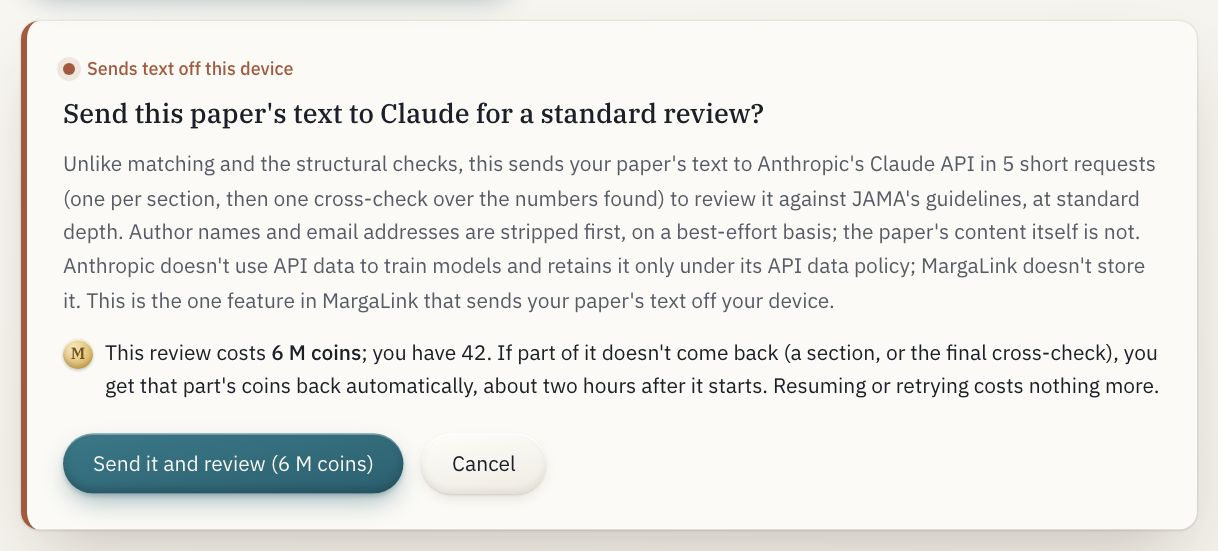
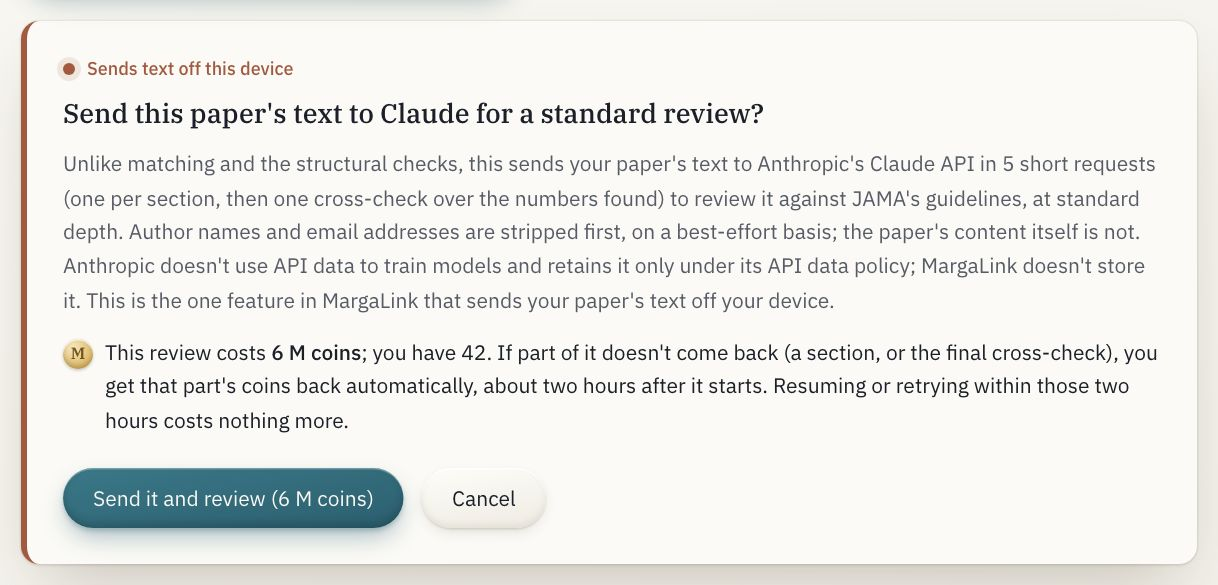
Second audit: the pages say what the code does
From the promises-vs-code audit:
- Privacy: purchase records are listed, Paddle event ids kept 90 days,
  and checkout and Turnstile described as running their own scripts; the
  sign-in panel no longer says only an email is kept.
- Deleting an account with Pro warns that Pro ends at once and the rest of
  the period is lost, and suggests cancelling first.
- Terms: capacity refusals charge nothing only before a run starts.
- The consent says resuming is free within the two hours; refunds and the
  guide say sections weigh by length.
- No dead Resume after a spent ticket; a Buy link after a 402; plain
  messages for Ask Claude, the account page and the portal (which also
  handles a network failure); the guide says Google shares its account id;
  the architecture page and diagram describe D1 and the account Functions;
  the landing page no longer says no sign-up at all.

Claude-Session: https://claude.ai/code/session_01FJMbDDx5ekqz6uR17AVMfJ

diff --git a/web/src/app/architecture/page.tsx b/web/src/app/architecture/page.tsx
@@ -53,14 +53,15 @@ export default function ArchitecturePage() {
           <SystemDiagram />
           <DocPart title="No server for the work">
             <p>
-              The web app is a Next.js <strong>static export</strong> on Cloudflare Pages. There is no application server and no database. The journal
+              The web app is a Next.js <strong>static export</strong> on Cloudflare Pages. No server does the work on a paper. The journal
               index is built offline by the Python pipeline ({code("pipeline/")}) and shipped as static files ({code("web/public/index/")}); the browser
               downloads it once and does every match itself. That isn&apos;t an optimisation on top of a server design: a server that ranks journals
               necessarily sees the paper, so keeping &ldquo;the paper never leaves the device&rdquo; absolute meant taking the server out of the path.
             </p>
             <p>
-              The two exceptions are Cloudflare Pages Functions, {code("functions/api/review.ts")} and {code("functions/api/figure.ts")}, for the two
-              features that need a language model. They exist because the browser must never hold the Anthropic API key. Both are stateless.
+              The exceptions are Cloudflare Pages Functions: {code("functions/api/review.ts")} and {code("functions/api/figure.ts")}, for the two
+              features that need a language model (the browser must never hold the Anthropic API key), and the account and payment Functions beside
+              them, on a D1 database that holds accounts and M coins, never anything from a paper.
             </p>
           </DocPart>
           <DocPart title="Heavy things run in workers">
@@ -91,9 +92,10 @@ export default function ArchitecturePage() {
                 name: "2 · Nothing from a paper is stored on a server",
                 what: (
                   <>
-                    Both Functions are stateless: they validate, call Claude, gate the answer and return it. The only server state is a daily counter per
-                    feature in KV ({code("review-pass-count:<date>")}, {code("figure-count:<date>")}). Writing projects live in the browser&apos;s Origin
-                    Private File System ({code("projectStore.ts")}).
+                    Both AI Functions keep nothing from a request: they validate, charge, call Claude, gate the answer and return it. Server state is a
+                    daily counter per feature in KV ({code("review-pass-count:<date>")}, {code("figure-count:<date>")}) and, in D1, accounts, the coin
+                    ledger and a running review&apos;s ticket (section ids and lengths). Writing projects live in the browser&apos;s Origin Private File
+                    System ({code("projectStore.ts")}).
                   </>
                 ),
               },
@@ -258,8 +260,9 @@ export default function ArchitecturePage() {
                 name: "Paying for a review",
                 what: (
                   <>
-                    {code("review/start")} gets section ids and lengths (never text), charges {code("reviewPrice")} and issues a ticket bound to them, with a pass
-                    budget, for two hours. Every pass spends one before Claude is called; when the ticket expires, the parts it didn&apos;t deliver (sections, the cross-check) are refunded.
+                    {code("review/start")} gets section ids and lengths (never text), charges {code("reviewPrice")} and issues a ticket bound to them for two
+                    hours. Every pass is claimed before Claude is called: a section that came back isn&apos;t sent again, and each gets at most four tries. When
+                    the ticket expires, what it didn&apos;t deliver is refunded, sections weighed by length.
                   </>
                 ),
                 away: true,

diff --git a/web/src/app/review/_components/useReview.ts b/web/src/app/review/_components/useReview.ts
@@ -5,7 +5,7 @@ import { extractFromFile } from "@/lib/extract";
 import { findJournalRules } from "@/lib/journalRules";
 import { checkRules, type RulesCheckResult } from "@/lib/rulesCheck";
 import { MAX_REVIEW_CHARS, prepareForReview } from "@/lib/review";
-import { ReviewSynthesisError, planChunks, quoteReview, runReview, type ReviewState } from "@/lib/reviewOrchestrator";
+import { ReviewEndedError, ReviewSynthesisError, planChunks, quoteReview, runReview, type ReviewState } from "@/lib/reviewOrchestrator";
 import { NotEnoughCoinsError, SignInRequiredError } from "@/lib/coins";
 import { refreshAccount, setBalance } from "@/components/useAccount";
 import { NO_EDITS, buildOutline, chunkSections, type OutlineEdits } from "@/lib/reviewSections";
@@ -35,6 +35,7 @@ export function useReview() {
   const [progress, setProgress] = useState<ReviewProgress | null>(null);
   const [reviewResult, setReviewResult] = useState<ReviewResult | null>(null);
   const [reviewError, setReviewError] = useState<string | null>(null);
+  const [shortOfCoins, setShortOfCoins] = useState(false); // the last start was refused for too few coins
   const [tier, setTier] = useState<ReviewTier>("standard");
   const [resumeState, setResumeState] = useState<ReviewState | null>(null);
   const abortRef = useRef<AbortController | null>(null);
@@ -50,6 +51,7 @@ export function useReview() {
     setConsentOpen(false);
     setReviewResult(null);
     setReviewError(null);
+    setShortOfCoins(false);
     setProgress(null);
     setResumeState(null);
   }, []);
@@ -149,6 +151,7 @@ export function useReview() {
       abortRef.current = ac;
       setReviewLoading(true);
       setReviewError(null);
+      setShortOfCoins(false);
       // A fresh run replaces the last result; a resume builds on it.
       if (!resume) {
         setReviewResult(null);
@@ -184,12 +187,17 @@ export function useReview() {
         if (err instanceof ReviewSynthesisError) {
           setResumeState(err.state);
           setReviewResult(err.partial);
+        } else if (err instanceof ReviewEndedError) {
+          setResumeState(null); // its ticket is spent or expired: a Resume would only fail
         } else if (runStateRef.current?.ticket) {
           // Whatever stopped a paid run (a sign-in that expired, today's
           // capacity), it can be picked up again on the same ticket, free.
           setResumeState(runStateRef.current);
         }
-        if (err instanceof NotEnoughCoinsError) setBalance(err.balance);
+        if (err instanceof NotEnoughCoinsError) {
+          setBalance(err.balance);
+          setShortOfCoins(true);
+        }
         if (err instanceof SignInRequiredError) {
           void refreshAccount();
           setReviewError("Sign in to get a review.");
@@ -240,6 +248,7 @@ export function useReview() {
     progress,
     reviewResult,
     reviewError,
+    shortOfCoins,
     resumeState,
     canRetry,
     unfinished,

diff --git a/web/src/app/privacy/page.tsx b/web/src/app/privacy/page.tsx
@@ -225,7 +225,11 @@ export default function PrivacyPage() {
       <h3 className="mt-6 font-medium">What an account keeps</h3>
       <ul className="mt-2 list-disc space-y-2 pl-5 text-ink-soft">
         <li>Your email address. If you use &ldquo;Continue with Google&rdquo;, also Google&apos;s id for your account, so we recognise it. Not your name, not your photo.</li>
-        <li>Your M coin history: each welcome bonus, purchase, charge and refund, with its date and the payment provider&apos;s reference for purchases.</li>
+        <li>Your M coin history: each welcome bonus, purchase, charge and refund, with its date.</li>
+        <li>
+          Your purchases: for each pack or Pro payment, what it bought, the amount and currency, and Paddle&apos;s references for the payment and for
+          you as its customer; for Pro, the plan and its billing periods; and any refund or chargeback of them.
+        </li>
         <li>Your sign-ins: for each browser you&apos;re signed in on, a one-way fingerprint of its sign-in token and when it expires (30 days, extended while you use it).</li>
         <li>Which version of this notice you signed up under.</li>
       </ul>
@@ -237,6 +241,7 @@ export default function PrivacyPage() {
           Counters that limit how many sign-in emails an address or a network can ask for. They&apos;re keyed by fingerprints made with a secret key
           only our server holds (a network&apos;s also changes daily), never the address itself, and they expire within a day.
         </li>
+        <li>Paddle&apos;s ids for the payment events it tells us about (nothing personal in them), for 90 days, so a repeated one is recognised.</li>
       </ul>
       <h3 className="mt-6 font-medium">Kept after you delete your account</h3>
       <p className="mt-2 text-ink-soft">
@@ -254,8 +259,9 @@ export default function PrivacyPage() {
       <p className="mt-2 text-ink-soft">
         Signed in, your browser holds two: one carries your sign-in and can&apos;t be read by
         pages, the other only says that you&apos;re signed in, so signed-out pages ask nothing. A
-        third, short-lived one exists only during a Google sign-in. No tracking or advertising
-        cookies, ever.
+        third, short-lived one exists only during a Google sign-in. MargaLink sets no tracking or
+        advertising cookies. When you buy coins, Paddle&apos;s checkout runs its own script, and where
+        it&apos;s switched on so does Cloudflare&apos;s Turnstile check; each follows its own privacy terms.
       </p>
       <h3 className="mt-6 font-medium">Who else is involved</h3>
       <ul className="mt-2 list-disc space-y-2 pl-5 text-ink-soft">

diff --git a/web/src/app/account/AccountView.tsx b/web/src/app/account/AccountView.tsx
@@ -28,7 +28,7 @@ export default function AccountView() {
     if (!signedIn) return;
     let live = true;
     fetch("/api/account")
-      .then((r) => (r.ok ? (r.json() as Promise<Details>) : Promise.reject(new Error(`Couldn't load your account (${r.status}).`))))
+      .then((r) => (r.ok ? (r.json() as Promise<Details>) : Promise.reject(new Error("Couldn't load your account. Reload the page to try again."))))
       .then((d) => live && setDetails(d))
       .catch((e: Error) => live && setError(e.message));
     return () => {
@@ -129,7 +129,7 @@ export default function AccountView() {
         </a>
       </Panel>
 
-      <DeletePanel email={account.email} onDeleted={() => setDeleted(true)} />
+      <DeletePanel email={account.email} pro={!!account.pro && account.pro.status !== "canceled"} onDeleted={() => setDeleted(true)} />
     </div>
   );
 }
@@ -143,7 +143,7 @@ function Panel({ title, children }: { title: string; children: ReactNode }) {
   );
 }
 
-function DeletePanel({ email, onDeleted }: { email: string; onDeleted: () => void }) {
+function DeletePanel({ email, pro, onDeleted }: { email: string; pro: boolean; onDeleted: () => void }) {
   const [typed, setTyped] = useState("");
   const [busy, setBusy] = useState(false);
   const [error, setError] = useState<string | null>(null);
@@ -165,6 +165,12 @@ function DeletePanel({ email, onDeleted }: { email: string; onDeleted: () => voi
     <section className="sheet border-l-4 border-away p-6 text-sm leading-relaxed text-ink-soft sm:p-8">
       <h2 className="mb-2 font-serif text-lg font-medium text-ink">Delete your account</h2>
       <p>This deletes your email address, sign-ins and coin history straight away. Any M coins left are lost, and it can&apos;t be undone.</p>
+      {pro && (
+        <p className="mt-2 text-away">
+          It also ends Pro at once: the rest of the period you&apos;ve paid for is lost. To keep it until then, cancel in Manage subscription instead and
+          delete your account after it ends.
+        </p>
+      )}
       <label htmlFor="delete-confirm" className="mt-4 block text-xs font-medium">
         Type {email} to confirm
       </label>

diff --git a/web/src/lib/paddleCheckout.ts b/web/src/lib/paddleCheckout.ts
@@ -50,10 +50,10 @@ function loadPaddle(): Promise<PaddleJs> {
  */
 export async function openPortal(): Promise<string | null> {
   const tab = window.open("about:blank", "_blank");
-  const res = await fetch("/api/pay/portal", { method: "POST" });
-  if (!res.ok) {
+  const res = await fetch("/api/pay/portal", { method: "POST" }).catch(() => null);
+  if (!res?.ok) {
     tab?.close();
-    return (await res.text().catch(() => "")) || `Couldn't open the portal (${res.status}).`;
+    return (res && (await res.text().catch(() => ""))) || "Couldn't open the subscription page. Check your connection and try again.";
   }
   const { url } = (await res.json()) as { url: string };
   if (tab) {
@@ -63,7 +63,7 @@ export async function openPortal(): Promise<string | null> {
   return null;
 }
 
-export async function openCheckout(o: { env: string; token: string; priceId: string; email: string; userId: string; onCompleted: () => void }) {
+export async function openCheckout(o: { env: string; token: string; priceId: string; email: string; userId: string; sig: string; onCompleted: () => void }) {
   const paddle = await loadPaddle();
   if (!ready) {
     if (o.env === "sandbox") paddle.Environment.set("sandbox");
@@ -74,7 +74,7 @@ export async function openCheckout(o: { env: string; token: string; priceId: str
   paddle.Checkout.open({
     items: [{ priceId: o.priceId, quantity: 1 }],
     customer: { email: o.email },
-    customData: { user_id: o.userId },
+    customData: { user_id: o.userId, sig: o.sig },
     settings: { displayMode: "overlay", theme: "light", allowLogout: false },
   });
 }

diff --git a/web/src/app/guide/page.tsx b/web/src/app/guide/page.tsx
@@ -822,7 +822,7 @@ export default function GuidePage() {
             alt="Signing in: Continue with Google, or an emailed link"
             notes={[
               <>
-                <strong>Continue with Google</strong>: shares only your verified email address with us.
+                <strong>Continue with Google</strong>: shares your verified email address and Google&apos;s id for your account, nothing else.
               </>,
               <>
                 <strong>Your email address</strong>, for a one-time link instead. It works once, within 15 minutes.
@@ -859,7 +859,7 @@ export default function GuidePage() {
           />
           <Aside title="Coins come back on their own">
             <p>
-              A review is priced in parts, one per section it sends and one for the final cross-check; any part that doesn&apos;t come back is
+              A review&apos;s price is shared among its sections, by length, and the final cross-check; any part that doesn&apos;t come back is
               refunded about two hours after the review started. An Ask Claude request that fails is refunded at once. Your history on the account
               page shows each refund.
             </p>

diff --git a/web/src/app/refunds/page.tsx b/web/src/app/refunds/page.tsx
@@ -17,8 +17,9 @@ export default function RefundsPage() {
       <div className="mt-10 space-y-8 text-ink-soft [&_strong]:font-medium [&_strong]:text-ink">
         <Part title="Coins back, automatically">
           <p>
-            A review is priced in parts: one for each section it sends, and one for the final cross-check. Any part that doesn&apos;t come back is
-            refunded, whether or not the rest of the review finished, about two hours after the review started. An Ask Claude request that fails, or
+            A review&apos;s price is shared among its parts: each section it sends, weighed by its length, and the final cross-check, counted like an
+            average section. Any part that doesn&apos;t come back is refunded (rounded up to whole coins), whether or not the rest of the review
+            finished, about two hours after the review started. An Ask Claude request that fails, or
             whose answer can&apos;t be used, is refunded at once. You don&apos;t need to ask; your coin history on{" "}
             <Link href="/account" className="text-accent hover:underline">
               your account page

diff --git a/web/src/app/review/_components/ReviewRunner.tsx b/web/src/app/review/_components/ReviewRunner.tsx
@@ -115,7 +115,20 @@ export default function ReviewRunner({ review: r, onCitation }: { review: Review
           onCancel={() => r.setConsentOpen(false)}
         />
       )}
-      {r.reviewError && <ErrorText>{r.reviewError}</ErrorText>}
+      {r.reviewError && (
+        <ErrorText>
+          {r.reviewError}
+          {r.shortOfCoins && (
+            <>
+              {" "}
+              <a href="/pricing#packs" target="_blank" rel="noopener" className="text-accent underline-offset-2 hover:underline">
+                Buy coins
+              </a>{" "}
+              <span className="text-ink-soft">(a new tab; your paper stays here)</span>
+            </>
+          )}
+        </ErrorText>
+      )}
       {r.reviewResult && <ReviewResultPanel result={r.reviewResult} partial={r.reviewResult.journalFit === null} onCitation={onCitation} />}
     </>
   );

diff --git a/web/src/components/useAccount.ts b/web/src/components/useAccount.ts
@@ -8,7 +8,8 @@ import { useSyncExternalStore } from "react";
 // signed in. It's asked again when the tab regains focus, which is how a
 // sign-in finished in a popup or another tab reaches this one.
 // `paddle`: what Paddle.js needs to open a checkout, or null until payments are set up.
-export type PaddleConfig = { env: "sandbox" | "production"; token: string; prices: Record<string, string> };
+// `checkout`: the account's signature for custom_data, so the webhook credits only the buyer.
+export type PaddleConfig = { env: "sandbox" | "production"; token: string; prices: Record<string, string>; checkout: string };
 // `pro`: the Pro plan, if there is one (renews: false once cancelled to the period's end).
 export type ProPlan = { interval: "month" | "year"; status: string; renews: boolean; periodEnd: number | null };
 export type Account =

diff --git a/web/src/components/docs/Diagrams.tsx b/web/src/components/docs/Diagrams.tsx
@@ -47,7 +47,7 @@ export function SystemDiagram() {
   const outside: Box[] = [
     { x: 566, y: 30, w: 240, h: 76, title: "Cloudflare Pages", lines: ["the static site, /index, /templates,", "the figure gallery"] },
     { x: 566, y: 124, w: 240, h: 94, title: "Public assets", lines: ["R2: TeX engine and packs", "jsDelivr: Pyodide, ONNX runtime", "Hugging Face: the embedding model"] },
-    { x: 566, y: 250, w: 240, h: 76, title: "Pages Functions", lines: ["/api/review · /api/figure", "hold the API key; store nothing"] },
+    { x: 566, y: 250, w: 240, h: 76, title: "Pages Functions", lines: ["/api/review · /api/figure", "hold the key; keep no paper"] },
     { x: 566, y: 352, w: 240, h: 54, title: "Anthropic API", lines: ["Claude"] },
   ];
   return (

diff --git a/web/src/app/terms/page.tsx b/web/src/app/terms/page.tsx
@@ -87,7 +87,8 @@ export default function TermsPage() {
         <Part title="Fair use">
           <p>
             Don&apos;t try to get around charges or limits, overload the service, call its API from anything but its own pages, or send material you
-            have no right to share. Daily capacity is limited; when it&apos;s reached, nothing is charged.
+            have no right to share. Daily capacity is limited: if it&apos;s reached before a review or a request starts, nothing is charged; a review stopped
+            midway by it is refunded for what didn&apos;t run.
           </p>
         </Part>
 

diff --git a/web/src/lib/figure.ts b/web/src/lib/figure.ts
@@ -64,7 +64,7 @@ export async function askClaude(
   }
   if (!res.ok) {
     const detail = await res.text().catch(() => "");
-    throw new Error(detail && res.status < 500 ? detail : `Claude request failed (${res.status})${detail ? `: ${detail}` : ""}`);
+    throw new Error(detail && res.status < 500 ? detail : "Claude didn't answer. Try again in a moment; a request that fails is refunded.");
   }
   const data = (await res.json().catch(() => null)) as Record<string, unknown> | null;
   const summary = typeof data?.summary === "string" ? data.summary : "";
